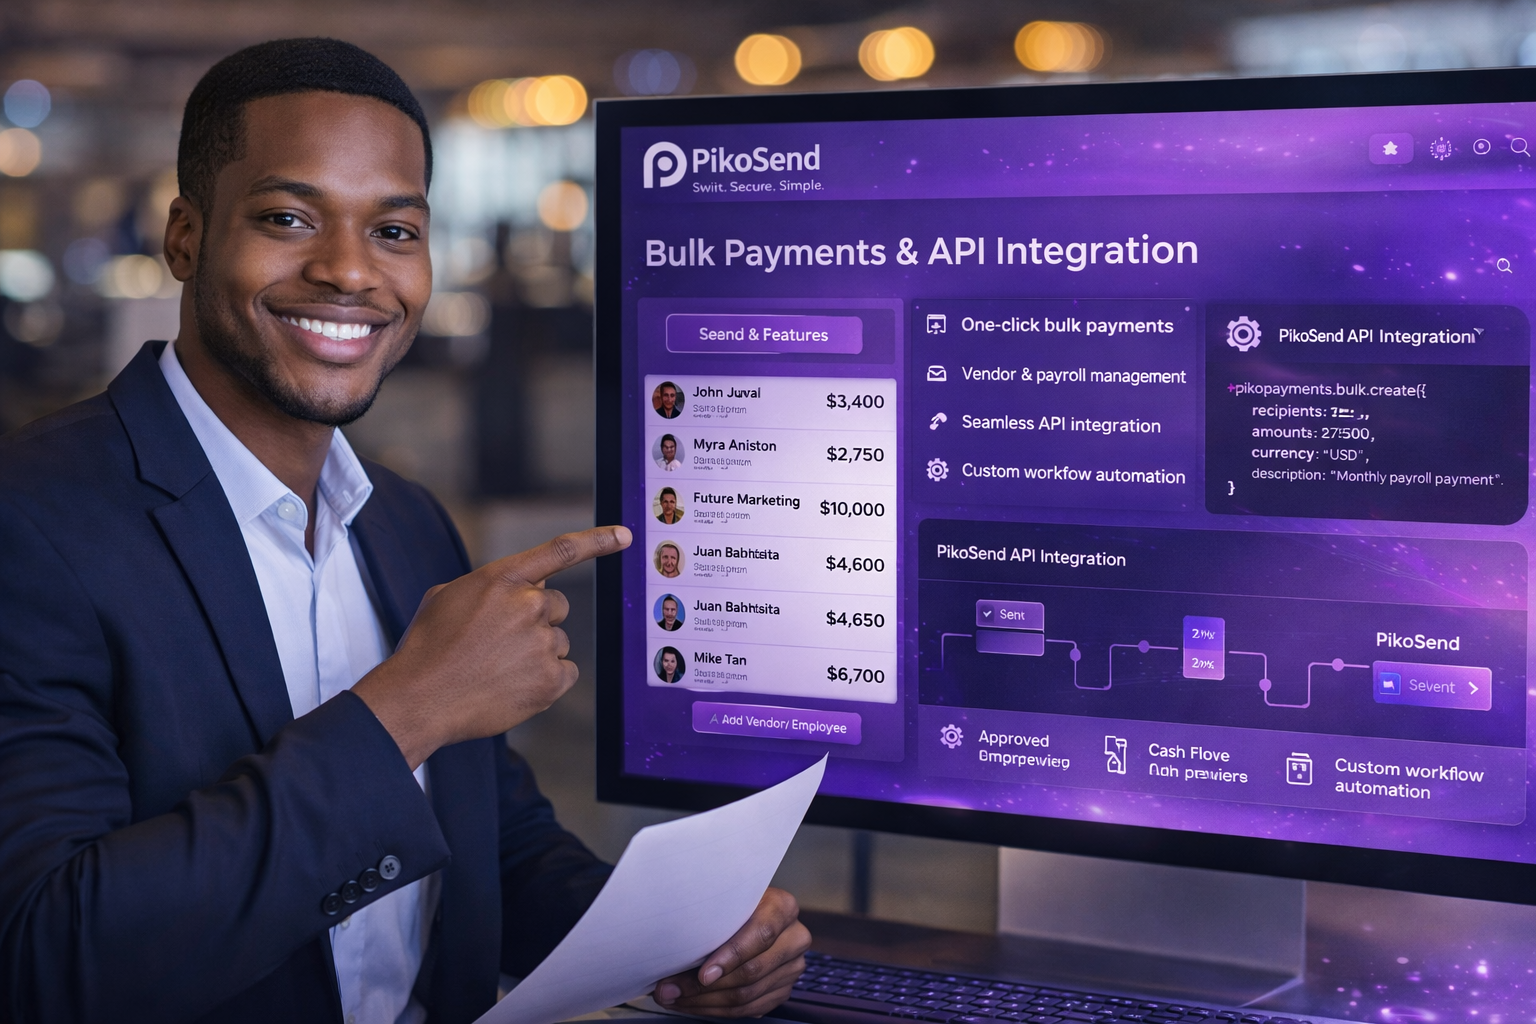
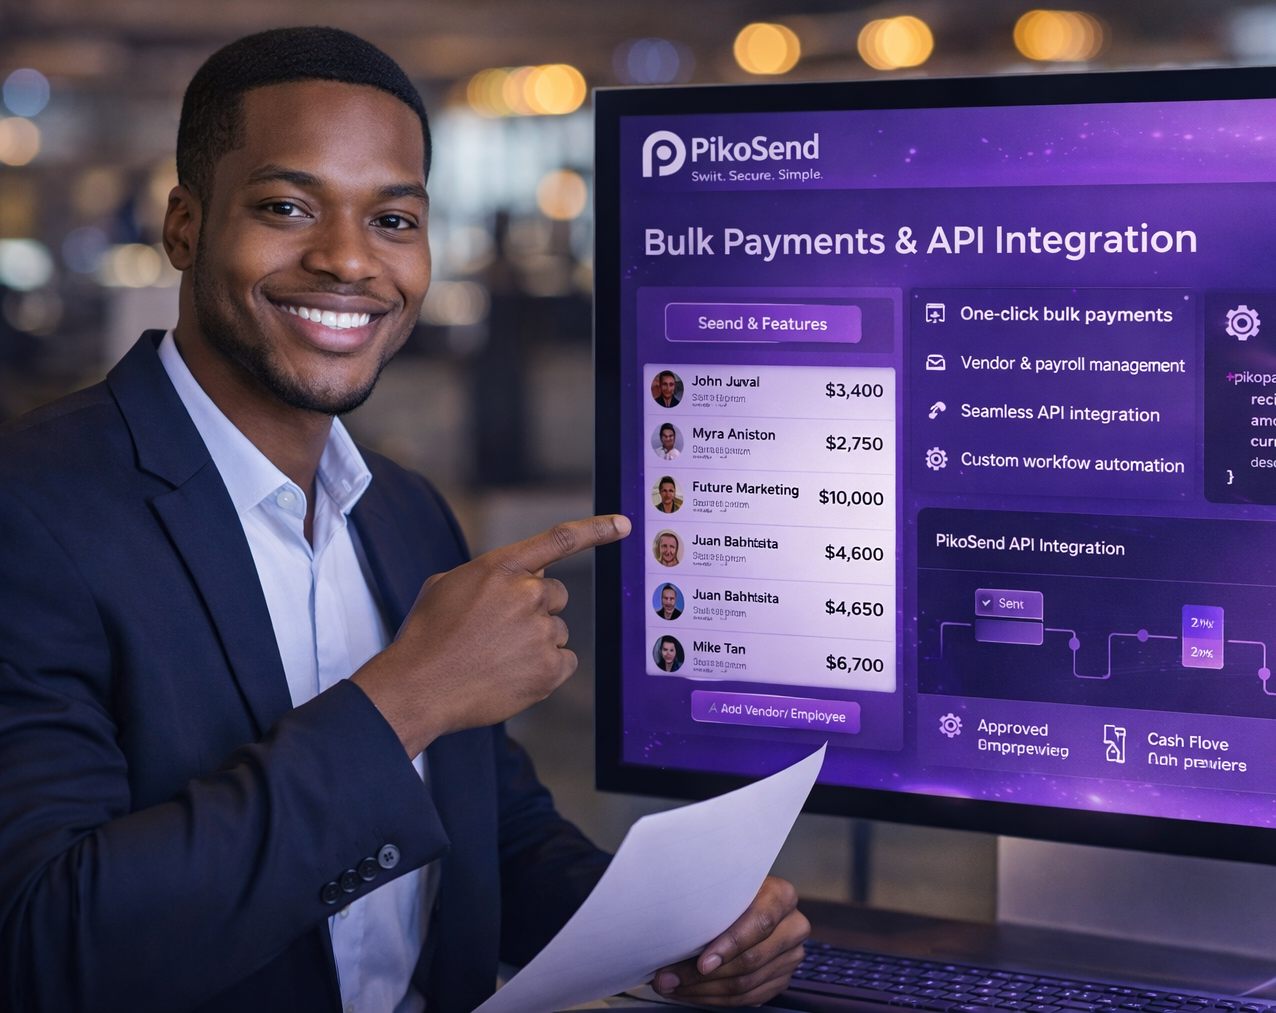
image resize

diff --git a/src/components/LiveTestimonials.tsx b/src/components/LiveTestimonials.tsx
@@ -1,11 +1,11 @@
-import React from 'react';
-import { Section } from './Section';
-import { Container } from './Container';
-import { CheckCircle2, MessageCircle, Star } from 'lucide-react';
+import React from "react";
+import { Section } from "./Section";
+import { Container } from "./Container";
+import { CheckCircle2, MessageCircle, Star } from "lucide-react";
 
 export const LiveTestimonials: React.FC = () => {
   return (
-    <Section background="soft-grey" id="testimonials" className='py-6 md:py-10'>
+    <Section background="soft-grey" id="testimonials" className="py-6 md:py-10">
       <Container>
         <div className="grid lg:grid-cols-2 gap-8 md:gap-16 items-center">
           <div>
@@ -22,86 +22,125 @@ export const LiveTestimonials: React.FC = () => {
             </h2>
 
             <p className="text-lg md:text-xl text-piko-medium-grey mb-8 leading-relaxed">
-              Thousands of satisfied customers across Africa trust PikoSend for their daily transactions, 
-              business payments, and personal transfers.
+              Thousands of satisfied customers across Africa trust PikoSend for
+              their daily transactions, business payments, and personal
+              transfers.
             </p>
 
             <div className="flex items-center gap-6 md:gap-8 mb-8">
               <div>
-                <div className="text-3xl md:text-4xl font-bold text-piko-black mb-1">4.9/5</div>
+                <div className="text-3xl md:text-4xl font-bold text-piko-black mb-1">
+                  4.9/5
+                </div>
                 <div className="flex gap-1 mb-2">
                   {[1, 2, 3, 4, 5].map((star) => (
-                    <Star key={star} className="w-4 h-4 md:w-5 md:h-5 fill-piko-purple text-piko-purple" />
+                    <Star
+                      key={star}
+                      className="w-4 h-4 md:w-5 md:h-5 fill-piko-purple text-piko-purple"
+                    />
                   ))}
                 </div>
-                <div className="text-sm text-piko-medium-grey">Based on 50K+ reviews</div>
+                <div className="text-sm text-piko-medium-grey">
+                  Based on 50K+ reviews
+                </div>
               </div>
 
               <div className="hidden md:block h-16 w-px bg-piko-soft-grey"></div>
               <div className="md:hidden w-12 h-px bg-piko-soft-grey"></div>
 
               <div>
-                <div className="text-3xl md:text-4xl font-bold text-piko-black mb-1">500K+</div>
-                <div className="text-sm text-piko-medium-grey">Active users</div>
+                <div className="text-3xl md:text-4xl font-bold text-piko-black mb-1">
+                  500K+
+                </div>
+                <div className="text-sm text-piko-medium-grey">
+                  Active users
+                </div>
               </div>
             </div>
 
             <div className="flex flex-wrap gap-3 md:gap-4">
               <div className="flex items-center gap-2 px-3 md:px-4 py-2 bg-white rounded-full border border-piko-soft-grey">
                 <CheckCircle2 className="w-4 h-4 md:w-5 md:h-5 text-piko-purple" />
-                <span className="text-xs md:text-sm font-medium text-piko-black">Trusted & Secure</span>
+                <span className="text-xs md:text-sm font-medium text-piko-black">
+                  Trusted & Secure
+                </span>
               </div>
               <div className="flex items-center gap-2 px-3 md:px-4 py-2 bg-white rounded-full border border-piko-soft-grey">
                 <CheckCircle2 className="w-4 h-4 md:w-5 md:h-5 text-piko-purple" />
-                <span className="text-xs md:text-sm font-medium text-piko-black">Instant Transfers</span>
+                <span className="text-xs md:text-sm font-medium text-piko-black">
+                  Instant Transfers
+                </span>
               </div>
               <div className="flex items-center gap-2 px-3 md:px-4 py-2 bg-white rounded-full border border-piko-soft-grey">
                 <CheckCircle2 className="w-4 h-4 md:w-5 md:h-5 text-piko-purple" />
-                <span className="text-xs md:text-sm font-medium text-piko-black">24/7 Support</span>
+                <span className="text-xs md:text-sm font-medium text-piko-black">
+                  24/7 Support
+                </span>
               </div>
             </div>
           </div>
 
-{/* img section */}
+          {/* img section */}
           <div className="relative">
             <div className="absolute -inset-4 bg-gradient-to-r from-piko-purple/20 to-piko-violet/20 rounded-3xl blur-2xl"></div>
-            
+
             <div className="relative overflow-hidden rounded-2xl shadow-2xl">
-              <img 
-                src="/new/landing_happy_users.jpeg" 
+              <img
+                src="/new/landing_happy_users_mobile.png"
                 alt="Happy users celebrating with PikoSend"
-                className="w-full h-96 object-cover object-center"
+                className="block md:hidden w-full h-96 object-cover object-center"
               />
-              
+
+              {/* Desktop image */}
+              <img
+                src="/new/landing_happy_users.jpeg"
+                alt="Happy users celebrating with PikoSend"
+                className="hidden md:block w-full h-96 object-cover object-center"
+              />
+
               {/* Overlay with stats */}
               <div className="absolute inset-0 bg-gradient-to-t from-piko-plum/90 via-piko-purple/40 to-transparent">
                 <div className="absolute bottom-0 left-0 right-0 p-8">
                   <div className="grid grid-cols-3 gap-6">
                     <div className="text-center">
-                      <div className="text-3xl font-bold text-white mb-1">99%</div>
-                      <div className="text-sm text-white/80">Satisfaction Rate</div>
+                      <div className="text-3xl font-bold text-white mb-1">
+                        99%
+                      </div>
+                      <div className="text-sm text-white/80">
+                        Satisfaction Rate
+                      </div>
                     </div>
                     <div className="text-center">
-                      <div className="text-3xl font-bold text-white mb-1">24/7</div>
-                      <div className="text-sm text-white/80">Support Available</div>
+                      <div className="text-3xl font-bold text-white mb-1">
+                        24/7
+                      </div>
+                      <div className="text-sm text-white/80">
+                        Support Available
+                      </div>
                     </div>
                     <div className="text-center">
-                      <div className="text-3xl font-bold text-white mb-1">30s</div>
-                      <div className="text-sm text-white/80">Average Transfer Time</div>
+                      <div className="text-3xl font-bold text-white mb-1">
+                        30s
+                      </div>
+                      <div className="text-sm text-white/80">
+                        Average Transfer Time
+                      </div>
                     </div>
                   </div>
                 </div>
               </div>
-              
+
               {/* Floating badge */}
               <div className="absolute top-6 right-6 px-4 py-2 bg-white rounded-full shadow-lg">
                 <div className="flex items-center gap-2">
                   <div className="w-2 h-2 bg-green-500 rounded-full animate-pulse"></div>
-                  <span className="text-sm font-semibold text-piko-purple">Trusted Choice</span>
+                  <span className="text-sm font-semibold text-piko-purple">
+                    Trusted Choice
+                  </span>
                 </div>
               </div>
             </div>
-            
+
             {/* Decorative elements */}
             <div className="absolute -bottom-4 -left-4 w-24 h-24 bg-gradient-to-br from-piko-purple/20 to-piko-violet/20 rounded-full blur-xl"></div>
             <div className="absolute -top-4 -right-4 w-20 h-20 bg-gradient-to-br from-piko-purple/20 to-piko-violet/20 rounded-full blur-xl"></div>

diff --git a/src/pages/About.tsx b/src/pages/About.tsx
@@ -160,7 +160,7 @@ export const About: React.FC = () => {
                       <img
                         src={HERO_IMAGE}
                         alt="PikoSend team collaborating"
-                        className="w-full h-[500px] object-cover"
+                        className="w-full h-[500px] object-cover object-center"
                         loading="lazy"
                       />
                       <div className="absolute inset-0 bg-gradient-to-t from-black/30 to-transparent"></div>
@@ -481,10 +481,16 @@ export const About: React.FC = () => {
               <div className="relative">
                 <div className="absolute -inset-6 bg-gradient-to-r from-piko-purple/20 via-piko-violet/20 to-piko-lilac/20 rounded-3xl blur-2xl opacity-60 animate-pulse"></div>
                 <div className="relative rounded-3xl overflow-hidden shadow-3xl border-2 border-white/30">
+                   <img
+                    src='/new/about_vision_mission_mobile.png'
+                    alt="Mission and vision"
+                    className="block md:hidden w-full h-[600px] object-cover object-center transition-transform duration-700 hover:scale-105"
+                    loading="lazy"
+                  />
                   <img
                     src={MISSION_IMAGE}
                     alt="Mission and vision"
-                    className="w-full h-[700px] object-cover object-top transition-transform duration-700 hover:scale-105"
+                    className="hidden md:block w-full h-[700px] object-cover object-top transition-transform duration-700 hover:scale-105"
                     loading="lazy"
                   />
                   <div className="absolute inset-0 bg-gradient-to-t from-black/60 via-transparent to-transparent"></div>

diff --git a/src/pages/Business.tsx b/src/pages/Business.tsx
@@ -18,7 +18,7 @@ const businessFeatures = [
     ],
     stats: 'Real-time',
     statsLabel: 'Analytics',
-    imageUrl: '/new/business_analytics_api.png',
+    imageUrl: '/new/business_analytics_api_mobile.png',
     gradient: 'from-piko-violet to-piko-lilac',
     accentColor: 'text-piko-violet',
     bgColor: 'bg-piko-violet/10'
@@ -52,7 +52,7 @@ const businessFeatures = [
     ],
     stats: '50+',
     statsLabel: 'API Endpoints',
-    imageUrl: '/new/Business_Bulk_Payments_API_Integration.png',
+    imageUrl: '/new/Business_Bulk_Payments_API_Integration_mobile.png',
     gradient: 'from-piko-lilac to-piko-purple',
     accentColor: 'text-piko-lilac',
     bgColor: 'bg-piko-lilac/10'
@@ -152,7 +152,7 @@ export const Business: React.FC = () => {
                       <img
                         src={feature.imageUrl}
                         alt={feature.title}
-                        className="w-full h-[400px] md:h-[500px] object-cover group-hover:scale-105 transition-transform duration-700"
+                        className="w-full h-[400px] md:h-[500px] object-cover object-center group-hover:scale-105 transition-transform duration-700"
                       />
                       <div className="absolute inset-0 bg-gradient-to-t from-black/20 to-transparent"></div>
                       

diff --git a/src/pages/FeaturesPage.tsx b/src/pages/FeaturesPage.tsx
@@ -122,7 +122,12 @@ export const FeaturesPage: React.FC = () => {
                       <img
                         src={feature.imageUrl}
                         alt={feature.title}
-                        className="w-full h-[400px] md:h-[500px] object-cover group-hover:scale-105 transition-transform duration-700"
+                        className="block md:hidden w-full h-[400px] md:h-[500px] object-cover object-center group-hover:scale-105 transition-transform duration-700"
+                      />
+                       <img
+                        src={feature.imageUrl}
+                        alt={feature.title}
+                        className="hidden md:block w-full h-[400px] md:h-[500px] object-cover group-hover:scale-105 transition-transform duration-700"
                       />
                       <div className="absolute inset-0 bg-gradient-to-t from-black/20 to-transparent"></div>
                                            

diff --git a/index.html b/index.html
@@ -17,7 +17,7 @@
         position: absolute;
         left: -9999px;
         z-index: 999;
-        padding: 1rem;
+        padding: 0.2rem;
         background-color: #8B5CF6;
         color: white;
         text-decoration: none;
